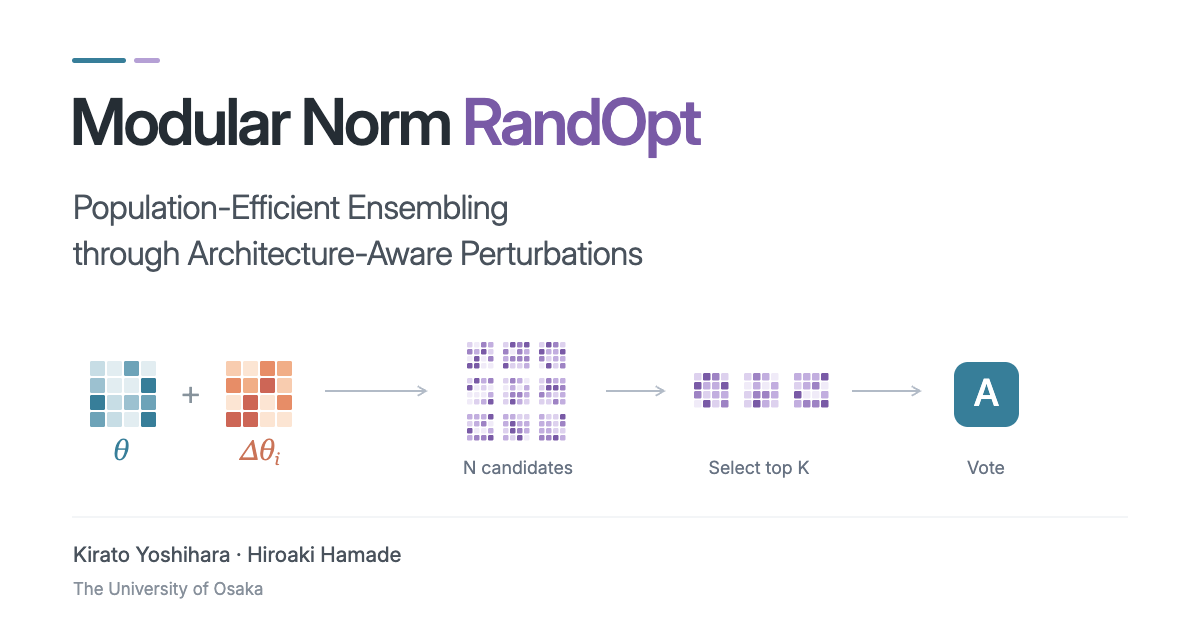
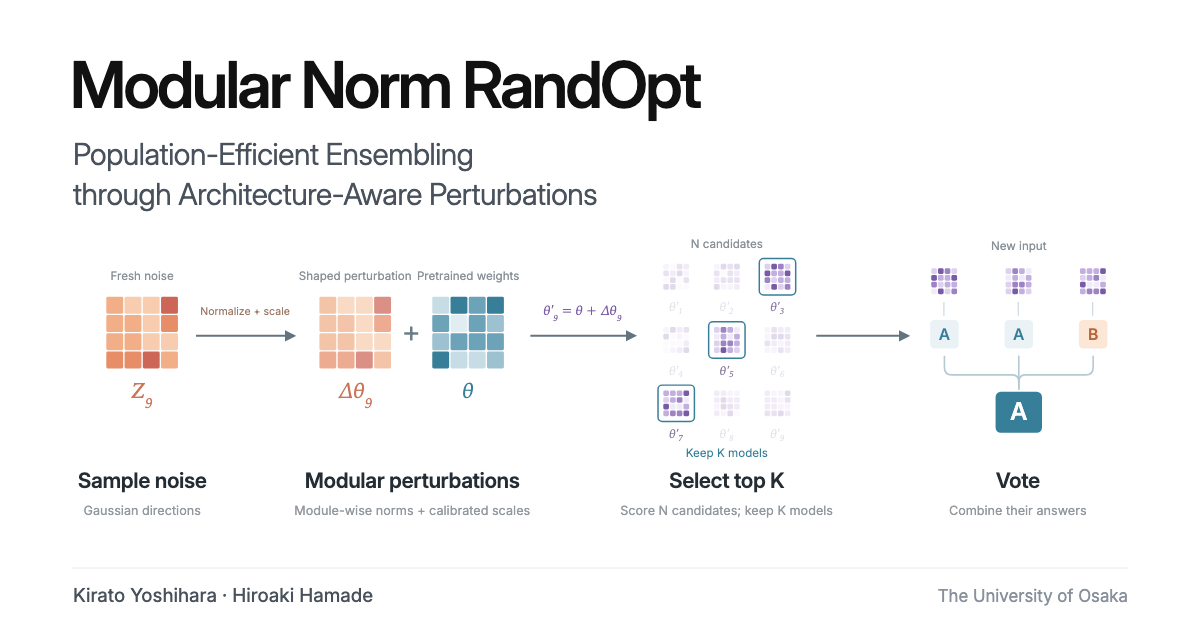
update mobile

diff --git a/index.html b/index.html
@@ -14,28 +14,28 @@
   <meta property="og:title" content="Modular Norm RandOpt: Population-Efficient Ensembling through Architecture-Aware Perturbations">
   <meta property="og:description" content="Architecture-aware perturbations build stronger language model ensembles from fewer candidates. Explore the method and results across seven tasks.">
   <meta property="og:url" content="https://kiratoyoshihara.github.io/Modular-Norm-RandOpt-page/">
-  <meta property="og:image" content="https://kiratoyoshihara.github.io/Modular-Norm-RandOpt-page/assets/social/og-image.png">
+  <meta property="og:image" content="https://kiratoyoshihara.github.io/Modular-Norm-RandOpt-page/assets/social/og-image.png?v=2">
   <meta property="og:image:type" content="image/png">
   <meta property="og:image:width" content="1200">
   <meta property="og:image:height" content="630">
-  <meta property="og:image:alt" content="Modular Norm RandOpt: architecture-aware perturbations create candidate models, followed by top-K selection and voting.">
+  <meta property="og:image:alt" content="Modular Norm RandOpt's completed method diagram: independent noise, normalization and scaling, nine candidates, top-three selection, and voting.">
   <meta name="twitter:card" content="summary_large_image">
   <meta name="twitter:title" content="Modular Norm RandOpt: Population-Efficient Ensembling through Architecture-Aware Perturbations">
   <meta name="twitter:description" content="Architecture-aware perturbations build stronger language model ensembles from fewer candidates.">
-  <meta name="twitter:image" content="https://kiratoyoshihara.github.io/Modular-Norm-RandOpt-page/assets/social/og-image.png">
-  <meta name="twitter:image:alt" content="Modular Norm RandOpt: architecture-aware perturbations create candidate models, followed by top-K selection and voting.">
+  <meta name="twitter:image" content="https://kiratoyoshihara.github.io/Modular-Norm-RandOpt-page/assets/social/og-image.png?v=2">
+  <meta name="twitter:image:alt" content="Modular Norm RandOpt's completed method diagram: independent noise, normalization and scaling, nine candidates, top-three selection, and voting.">
   <link rel="icon" type="image/png" sizes="32x32" href="assets/icons/favicon-32.png">
   <link rel="icon" type="image/svg+xml" sizes="any" href="assets/icons/favicon.svg">
   <link rel="apple-touch-icon" sizes="180x180" href="assets/icons/apple-touch-icon.png">
   <link rel="preload" href="assets/fonts/InterVariable.woff2" as="font" type="font/woff2" crossorigin>
   <link rel="stylesheet" href="assets/css/style.css?v=white8">
   <link rel="stylesheet" href="assets/css/research.css?v=hero-type-3">
-  <link rel="stylesheet" href="assets/css/figure2.css?v=mobile-layout-1">
+  <link rel="stylesheet" href="assets/css/figure2.css?v=chart-reveal-2">
   <link rel="stylesheet" href="assets/css/section-nav.css?v=1">
   <link rel="stylesheet" href="assets/css/iterative.css?v=iterative-n-5">
   <link rel="stylesheet" href="assets/css/method-animation.css?v=indexed-sampling-1">
   <link rel="stylesheet" href="assets/css/layout.css?v=layout15">
-  <script type="module" src="assets/js/main.js?v=mobile-layout-1"></script>
+  <script type="module" src="assets/js/main.js?v=chart-reveal-2"></script>
 </head>
 <body>
   <a class="skip-link" href="#main">Skip to content</a>

diff --git a/assets/css/figure2.css b/assets/css/figure2.css
@@ -13,19 +13,17 @@
 .figure2 figcaption { margin: 21px auto 0; max-width: 800px; text-align: center; font-size: 10px; color: #838383; line-height: 1.8; }
 .figure2-section + .results-section { padding-top: 64px; border-top: 1px solid #e5e5e5; }
 
-/* Observe rows independently: the second row waits until it enters the viewport. */
-.figure2-row[data-reveal='waiting'] .f2-axes,
+/* Keep axes readable while each panel's data waits for its scroll reveal. */
 .figure2-row[data-reveal='waiting'] .f2-data,
 .figure2-row[data-reveal='waiting'] .f2-emphasis { opacity: 0; }
 .figure2-row[data-reveal='waiting'] .f2-sweep { transform: scaleX(0); }
 .figure2-row[data-reveal='playing'] { animation: figure2-sequence 3100ms linear both; }
-.figure2-row[data-reveal='playing'] .f2-axes { animation: figure2-fade 420ms ease-out var(--panel-delay) both; }
 /* Reveal every point in a row together, then draw the connecting curves. */
 .figure2-row[data-reveal='playing'] .f2-point { animation: figure2-fade 240ms ease-out 420ms both; }
 .figure2-row[data-reveal='playing'] .f2-sweep { animation: figure2-draw 1400ms cubic-bezier(.33,1,.68,1) calc(800ms + var(--panel-delay)) both; }
 .figure2-row[data-reveal='playing'] .f2-bands { animation: figure2-fade 800ms ease-out calc(1000ms + var(--panel-delay)) both; }
 .figure2-row[data-reveal='playing'] .f2-emphasis { animation: figure2-rise 450ms cubic-bezier(.22,.61,.36,1) calc(2400ms + var(--panel-delay)) both; }
-.figure2-row[data-visible='false'], .figure2-row[data-visible='false'] *,
+/* A started reveal finishes even during a quick scroll; hidden tabs still pause. */
 .figure2[data-paused='true'] *, html[data-motion='paused'] .figure2 * { animation-play-state: paused !important; }
 @keyframes figure2-sequence { from { opacity: 1; } to { opacity: 1; } }
 @keyframes figure2-fade { from { opacity: 0; } to { opacity: 1; } }

diff --git a/assets/js/figure2-chart.js b/assets/js/figure2-chart.js
@@ -27,13 +27,16 @@ export class Figure2Chart {
     if ('IntersectionObserver' in window) {
       this.observer = new window.IntersectionObserver((entries) => {
         for (const entry of entries) {
-          const visible = entry.isIntersecting && entry.intersectionRatio >= .18;
+          const visible = entry.isIntersecting;
           entry.target.dataset.visible = String(visible);
           if (visible) this.visible.add(entry.target);
           else this.visible.delete(entry.target);
           if (visible && entry.target.dataset.reveal === 'waiting') entry.target.dataset.reveal = 'playing';
+          // A quick scroll past a panel leaves its results ready for the next visit.
+          else if (!visible && entry.target.dataset.reveal === 'playing') entry.target.dataset.reveal = 'complete';
         }
-      }, { threshold: [0, .18] });
+      // Begin just before a panel enters either edge of a small viewport.
+      }, { threshold: 0, rootMargin: '120px 0px' });
       this.rows.forEach((row) => this.observer.observe(row));
     }
     this.rows.forEach((row) => {

diff --git a/assets/js/main.js b/assets/js/main.js
@@ -1,7 +1,7 @@
 import { RadarChart } from './radar-chart.js';
-import { Figure2Chart } from './figure2-chart.js';
+import { Figure2Chart } from './figure2-chart.js?v=chart-reveal-2';
 import { SectionNav } from './section-nav.js';
-import { IterativeChart } from './iterative-chart.js';
+import { IterativeChart } from './iterative-chart.js?v=chart-reveal-2';
 import { MethodAnimation } from './method-animation.js?v=mobile-layout-1';
 
 const sectionNav = document.querySelector('.section-nav');

diff --git a/assets/js/iterative-chart.js b/assets/js/iterative-chart.js
@@ -1,4 +1,4 @@
-import { Figure2Chart } from './figure2-chart.js';
+import { Figure2Chart } from './figure2-chart.js?v=chart-reveal-2';
 import { escapeHTML as esc } from './radar-svg.js';
 
 export class IterativeChart {
